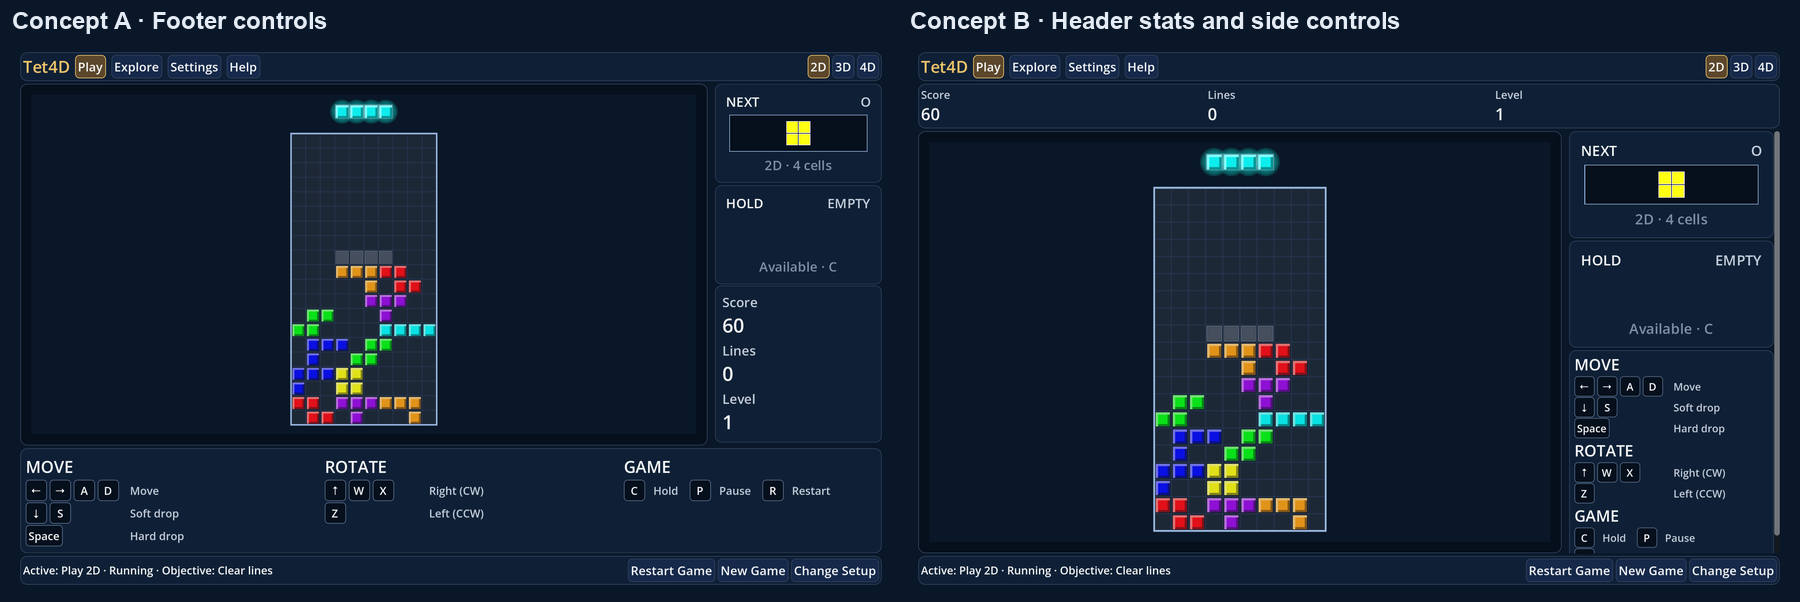
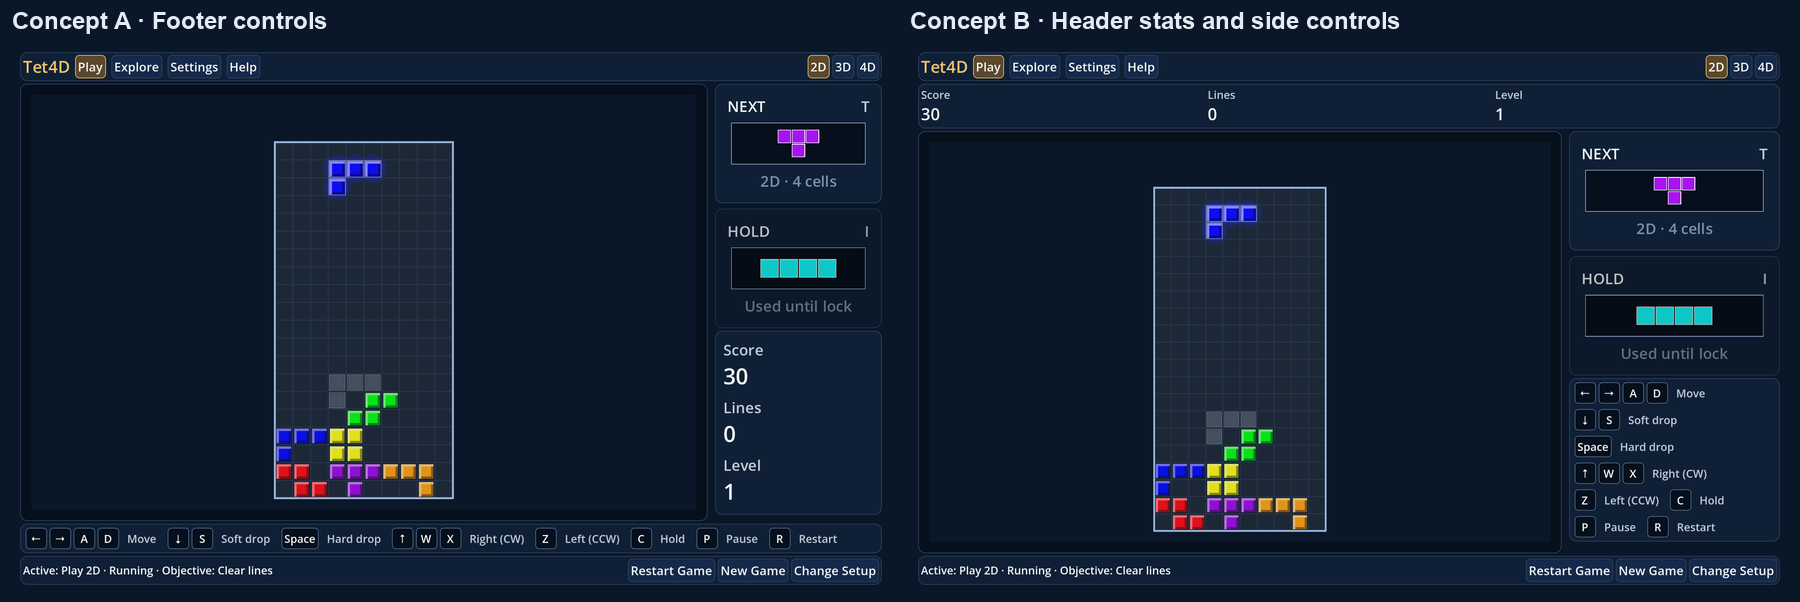
Tighten P3 control legends and lock board allocation

diff --git a/CURRENT_STATE.md b/CURRENT_STATE.md
@@ -14,7 +14,8 @@ Graphical language P3 launch is owner-approved: fresh Play · 2D, last Play or
 Explore view and dimension on return, and explicit Start in Play. The launch
 slice is implemented on `codex/graphical-language-p3` from `graphical-design`.
 P3 keeps the approved Concept A cockpit as the default and offers Concept B
-with header stats and side controls. Both keep separate W slices.
+with header stats and side controls. Both keep separate W slices. P3 review follow-up covers board allocation,
+legend visibility and full-size capture evidence.
 Explorer cockpit Phases 0–2 (lock, descriptor and independent input dispatch) are implemented and verified. CI work remains isolated in PR #185. 2D keyboard movement uses the shared mapper; tests pin camera-relative defaults and rear-view relative/absolute dispatch. Manual screen review remains pending.
 Owner debug reconnection uses compact 2D shell chrome and shared projected helper directions, omits the duplicate vertical row, and adds no functions; focused checks pass. Phases 3–6 and human visual acceptance remain open under `docs/plans/explorer_cockpit_unification.md`.
 Explorer T2A implements the native bounded/cylinder/torus translation candidate and permanent preservation suite described in `docs/architecture/explorer_topology_t2a_native_transport.md`. T1 PRs #172–#176 are the accepted baseline; remaining Correction 4B P2 findings stay deferred. T2B is integrated; the owner-authorized 2D surface candidate adds Möbius/Klein/projective, coherent rotations/Undo and compatibility two-chart S² under `docs/architecture/explorer_surface_runtime.md`. The topology-first amendment selects single-square `sphere_adjacent_positive` and probe semantics for Klein/RP²/S² (RDS §2.5); physical inverse recovery and geometric coherence do not gate translation; destination injectivity remains mandatory. Complete T2/T6 acceptance remains open. Runtime authority has not transferred. See `docs/BACKLOG.md` and `docs/architecture/explorer_topology_t2_transfer_preparation.md`.

diff --git a/docs/design/screenshots/graphical_language_p3/README.md b/docs/design/screenshots/graphical_language_p3/README.md
@@ -1,13 +1,18 @@
 # P3 cockpit layout comparisons
 
-Each windowed comparison shows Concept A on the left and Concept B on the
-right. Both runs use the Luminous theme, seed 1337, and the same scripted
-moves and drops within each dimension. Source captures were taken at
-2880 × 1800 backing pixels on a Retina display.
+Windowed captures use the Luminous theme, seed 1337 and the same six drops,
+one Hold and three gravity ticks for each layout. The game-state hashes
+match between layouts in every dimension. The originals are 2880 × 1800
+backing pixels at a 1440 × 900 Retina window. The comparisons show
+Concept A on the left and Concept B on the right.
 
-- [2D](layouts-2d.png)
-- [3D](layouts-3d.png)
-- [4D](layouts-4d.png)
+| State | Comparison | Concept A original | Concept B original |
+| --- | --- | --- | --- |
+| Ready | [Pair](layouts-ready.png) | [Full size](concept-a-ready.png) | [Full size](concept-b-ready.png) |
+| 2D | [Pair](layouts-2d.png) | [Full size](concept-a-2d.png) | [Full size](concept-b-2d.png) |
+| 3D | [Pair](layouts-3d.png) | [Full size](concept-a-3d.png) | [Full size](concept-b-3d.png) |
+| 4D | [Pair](layouts-4d.png) | [Full size](concept-a-4d.png) | [Full size](concept-b-4d.png) |
 
-The owner approved both layouts, with Concept A as the default.
-Both layouts keep separate W slices in 4D.
+The owner approved both cockpit arrangements, with Concept A as the default
+and separate W slices in both. These captures include the narrower controls
+legend added after that review.

diff --git a/docs/plans/graphical_language_adoption.md b/docs/plans/graphical_language_adoption.md
@@ -155,6 +155,9 @@ describes the older "calm instrument" look.
 - Re-baseline `test_locked_shell_layouts.gd` in this PR with the
   owner-accepted rectangles, keeping its reachability, no-clipping, focus and
   small-window checks.
+- P3 review checks cover projected board height and complete legends at the
+  standard capture window. Full-size ready and seeded midgame captures show
+  both layout choices. Smaller windows may scroll the helper deck.
 - Retire the `plain` and `tron` themes; keep `diagnostic` and High Contrast.
 
 ### P4 — 4D views (deferred)

diff --git a/docs/BACKLOG.md b/docs/BACKLOG.md
@@ -31,6 +31,9 @@ Completed chronology is recoverable from Git, merged PRs, CI, and
 
 ## Active Work
 
+- P3 review: recover board height, lock standard-window legend visibility,
+  and retain full-size Ready and seeded midgame evidence for both layouts.
+
 - Graphical language P3: implement direct cockpit launch with Play · 2D
   defaults, last Play/Explore view and dimension, and explicit Start in Play.
   Lock the approved Concept A cockpit and cover the selectable Concept B
